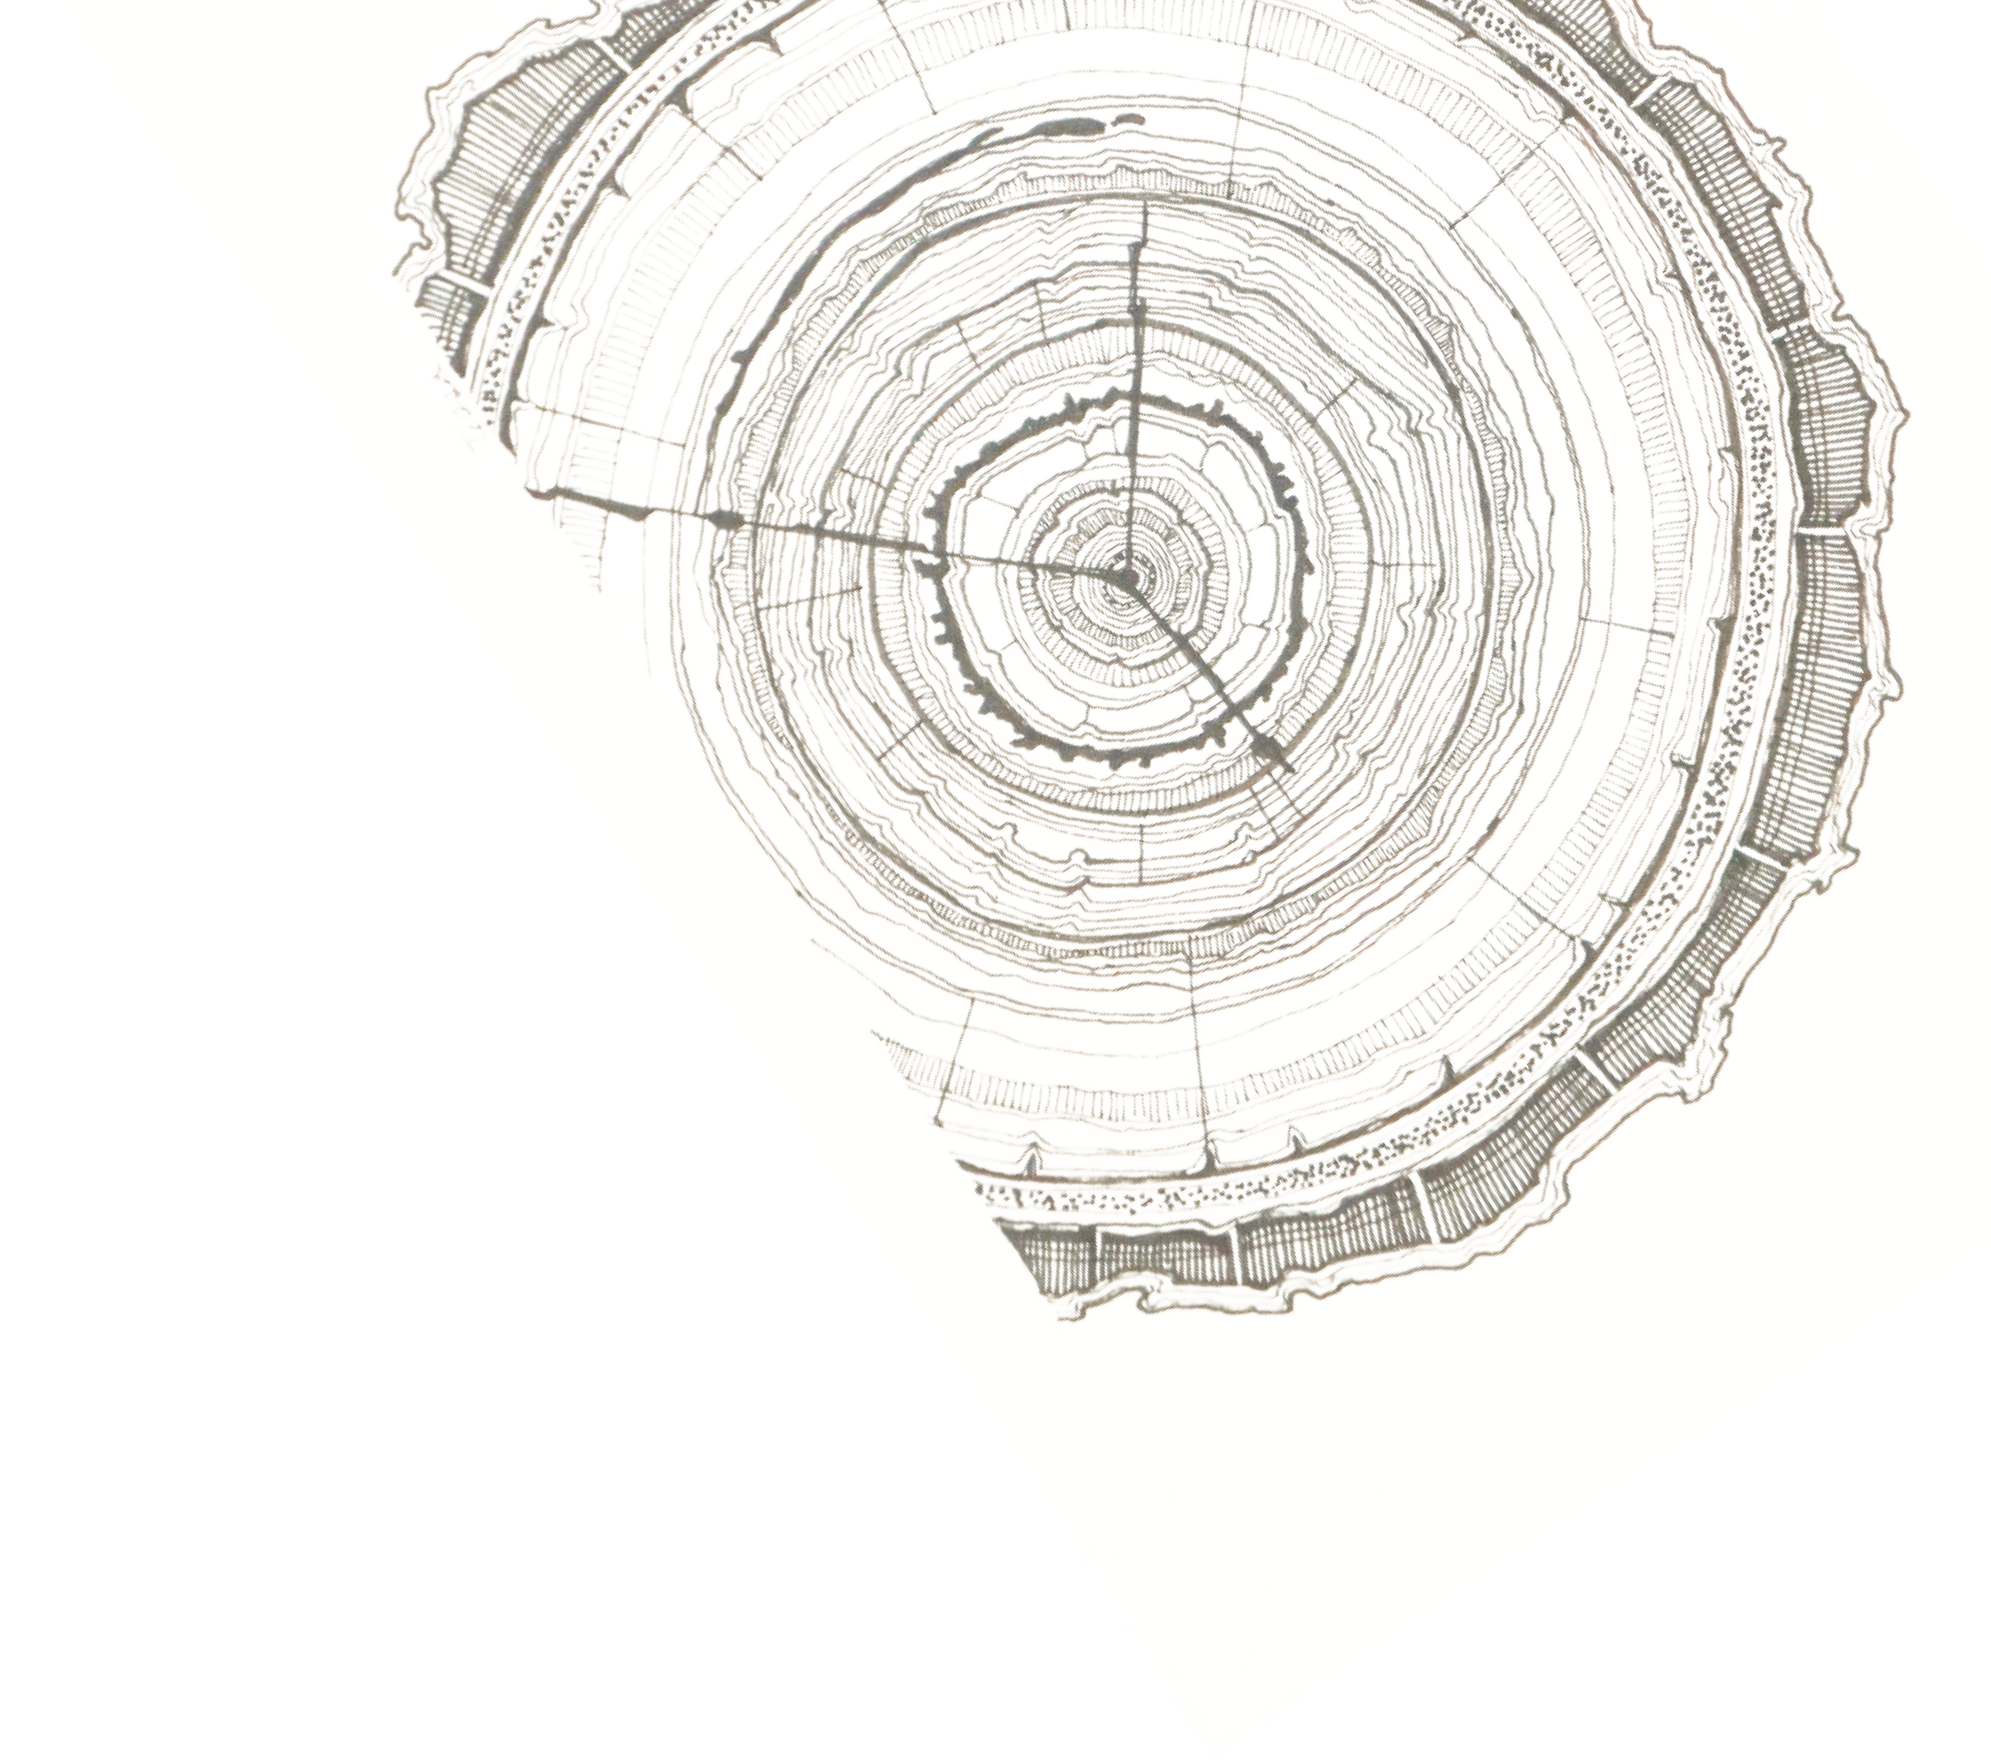
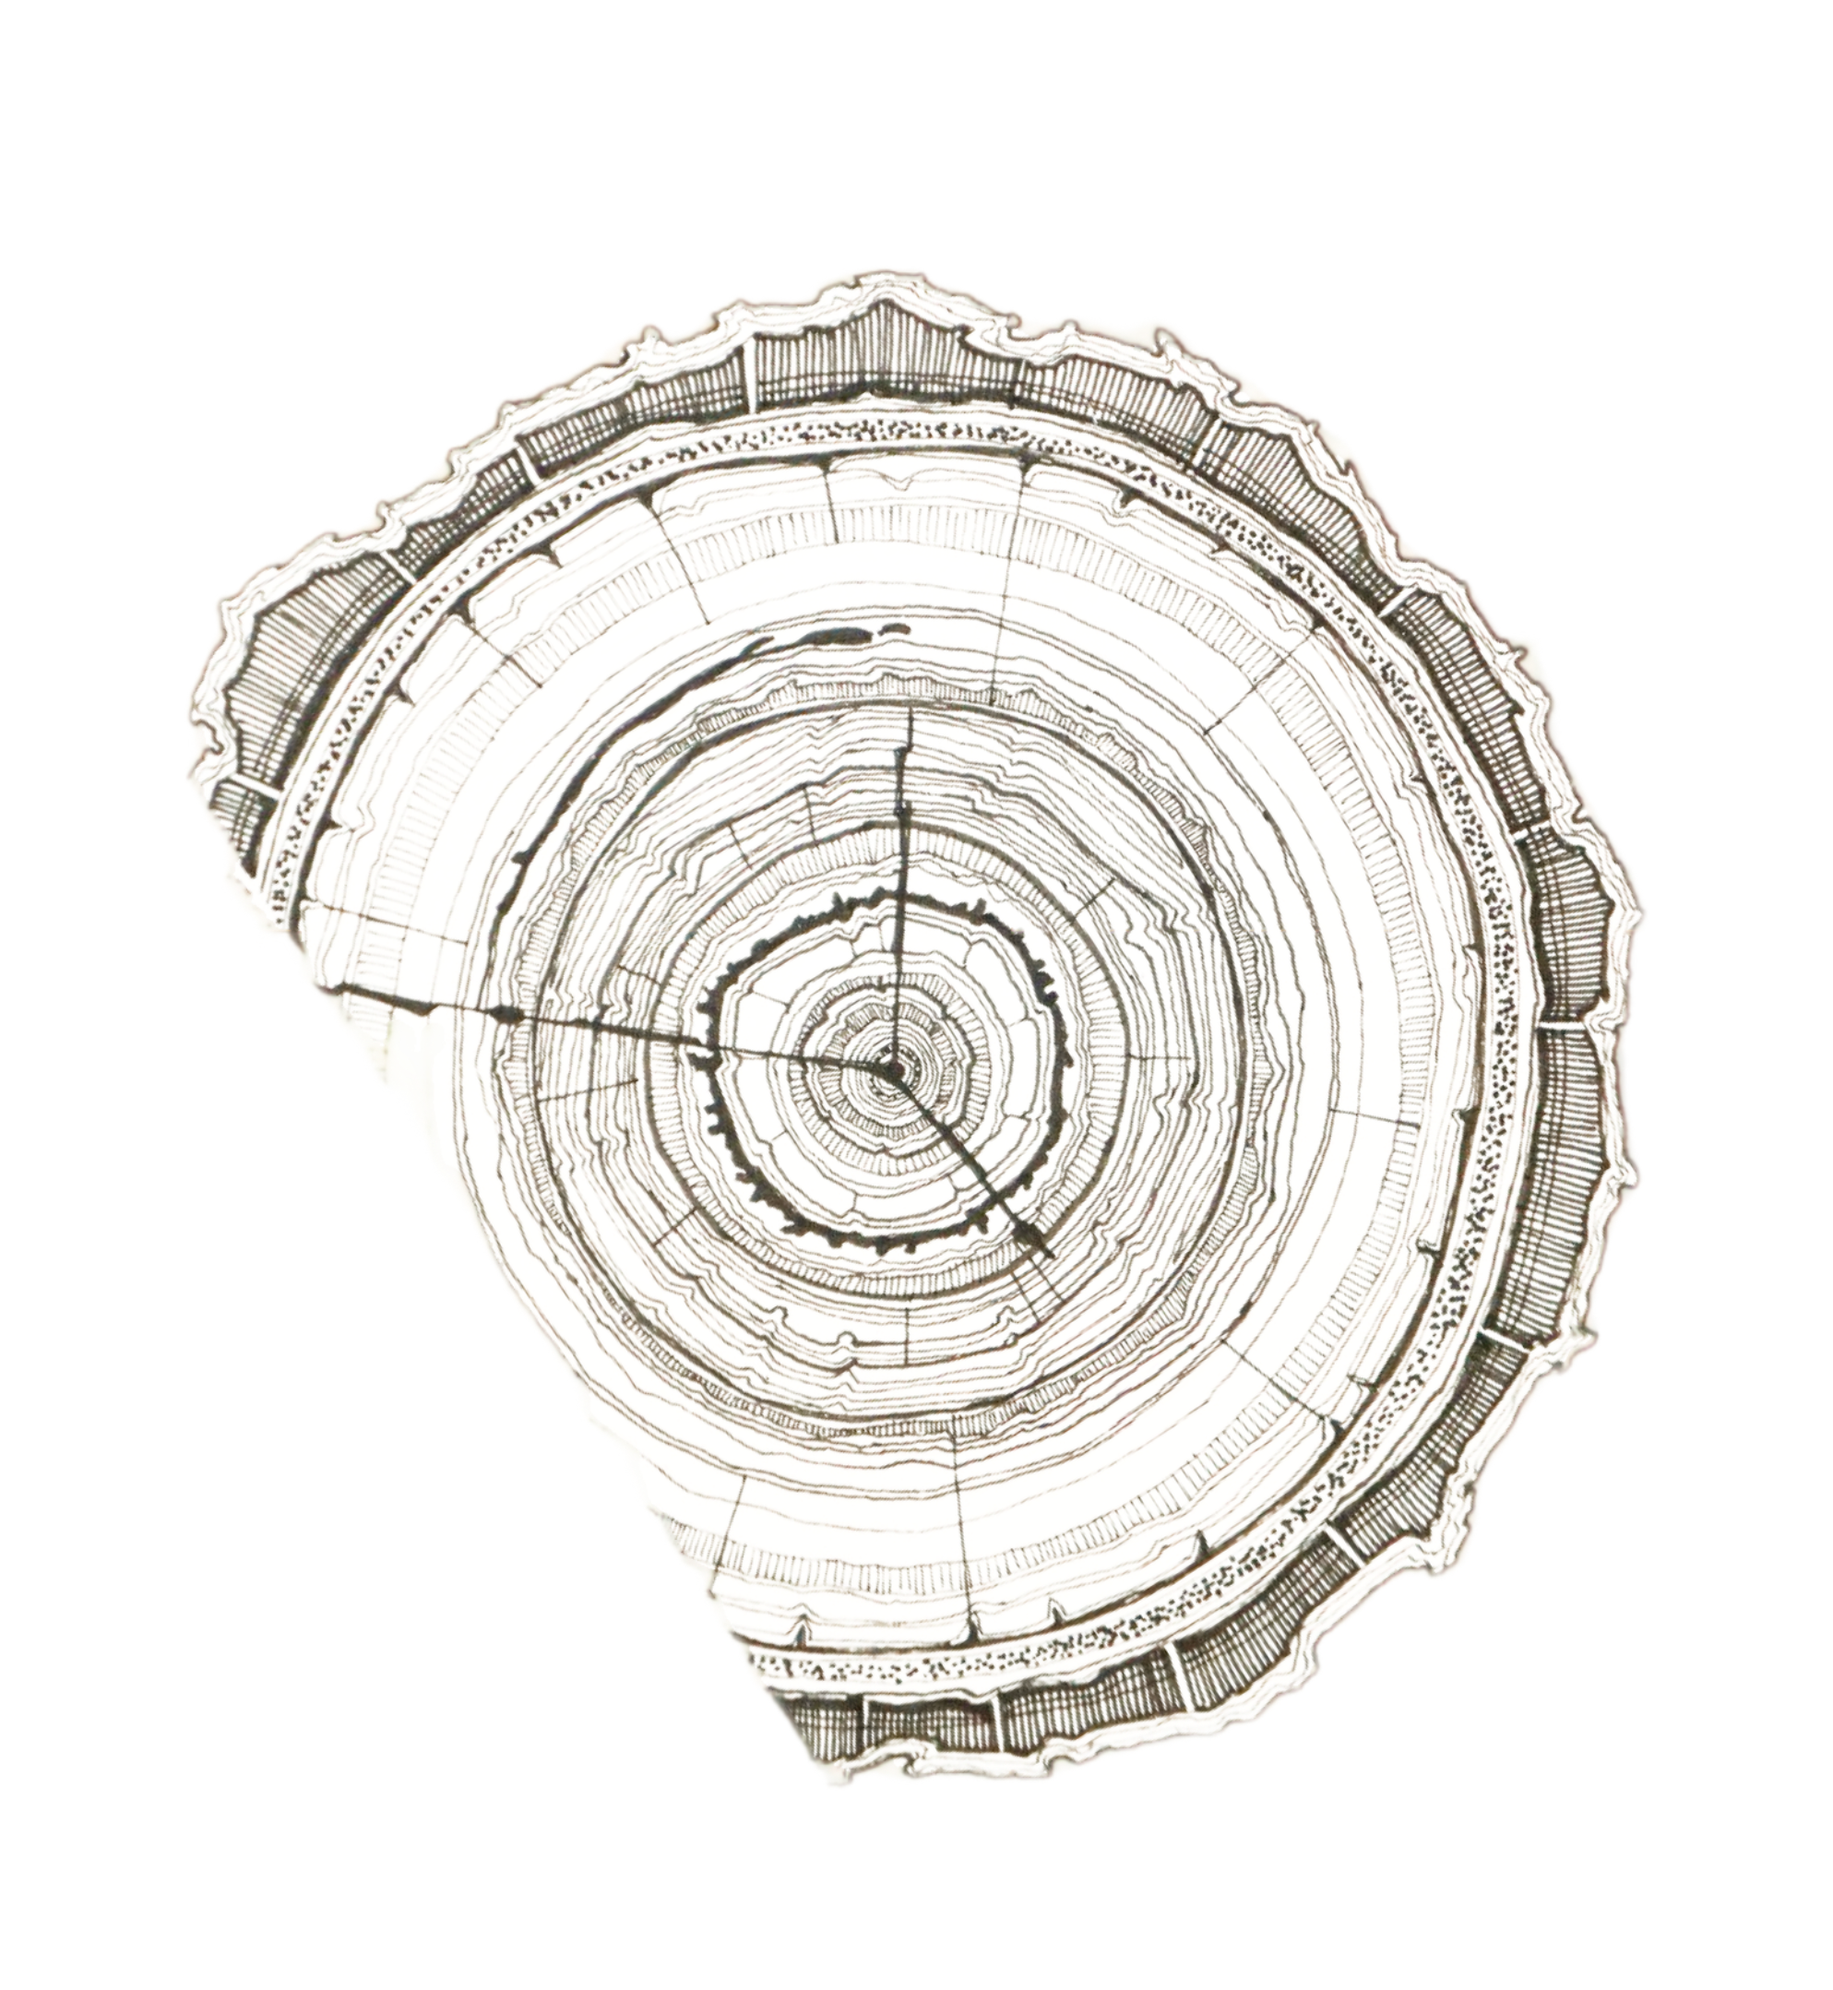
обновил изображение

Changed region(s): [[0.0936, 0.0, 0.9673, 0.8968], [0.4368, 0.0, 0.468, 0.0309]]

diff --git a/scss/sections/evolution.scss b/scss/sections/evolution.scss
@@ -369,18 +369,23 @@
             width: 46.7em;
             top: -10.3em;
             right: 0;
+            mix-blend-mode: luminosity;
+            z-index: 1;
+
         }
 
         &.second {
-            // width: 21.5em;
-            // bottom: -1.5em;
-            // right: -1.2em;
+            width: 70em;
+            bottom: 5em;
+            right: -4.6em;
+            mix-blend-mode: darken;
         }
 
         &.third {
             width: 35.1em;
             top: 0;
             left: 0;
+            z-index: 5;
 
         }
     }
@@ -391,14 +396,6 @@
         left: -12em;
         width: 60em;
     }
-
-    &__house {}
-
-    &__house {}
-
-    &__house {}
-
-    &__house {}
 
 }
 

diff --git a/style.css b/style.css
@@ -1499,11 +1499,20 @@ body {
   width: 46.7em;
   top: -10.3em;
   right: 0;
+  mix-blend-mode: luminosity;
+  z-index: 1;
+}
+.evolution__preview.second {
+  width: 70em;
+  bottom: 5em;
+  right: -4.6em;
+  mix-blend-mode: darken;
 }
 .evolution__preview.third {
   width: 35.1em;
   top: 0;
   left: 0;
+  z-index: 5;
 }
 .evolution__hous {
   position: absolute;
@@ -1511,6 +1520,7 @@ body {
   left: -12em;
   width: 60em;
 }
+
 .airplane {
   position: absolute;
 }

diff --git a/index.html b/index.html
@@ -68,6 +68,7 @@
               </div>
               <div class="evolution__col">
                 <div class="evolution__preview first"><img src="/img/preview_1.png" alt="alt"/></div>
+                <div class="evolution__preview second"><img src="/img/preview_2.png" alt="alt"/></div>
                 <div class="evolution__preview third"><img src="/img/preview_3.png" alt="alt"/></div>
               </div>
             </div>
